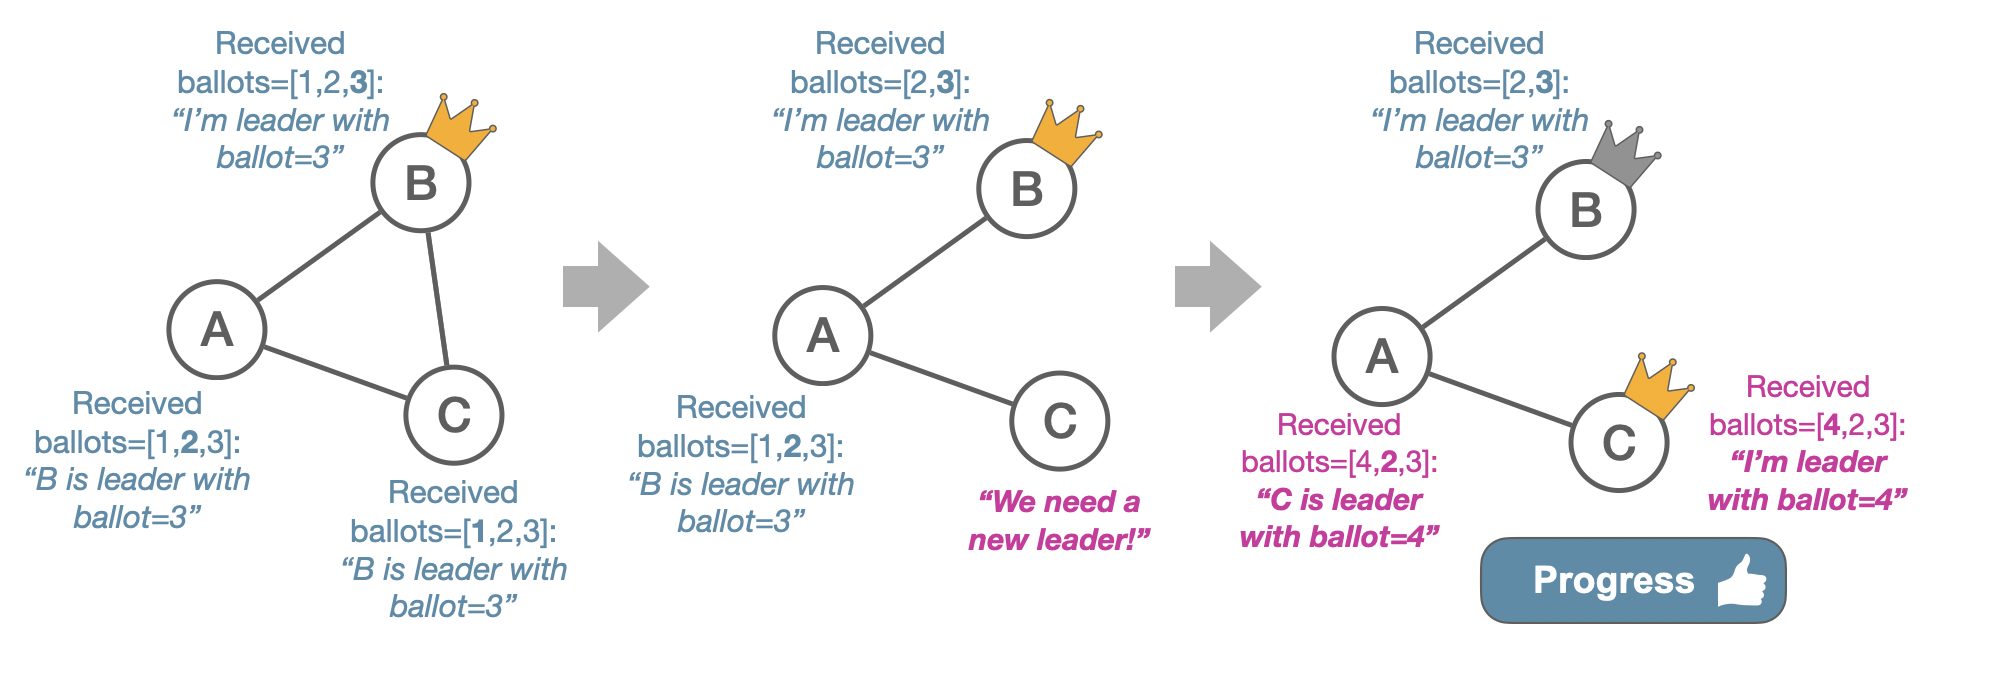
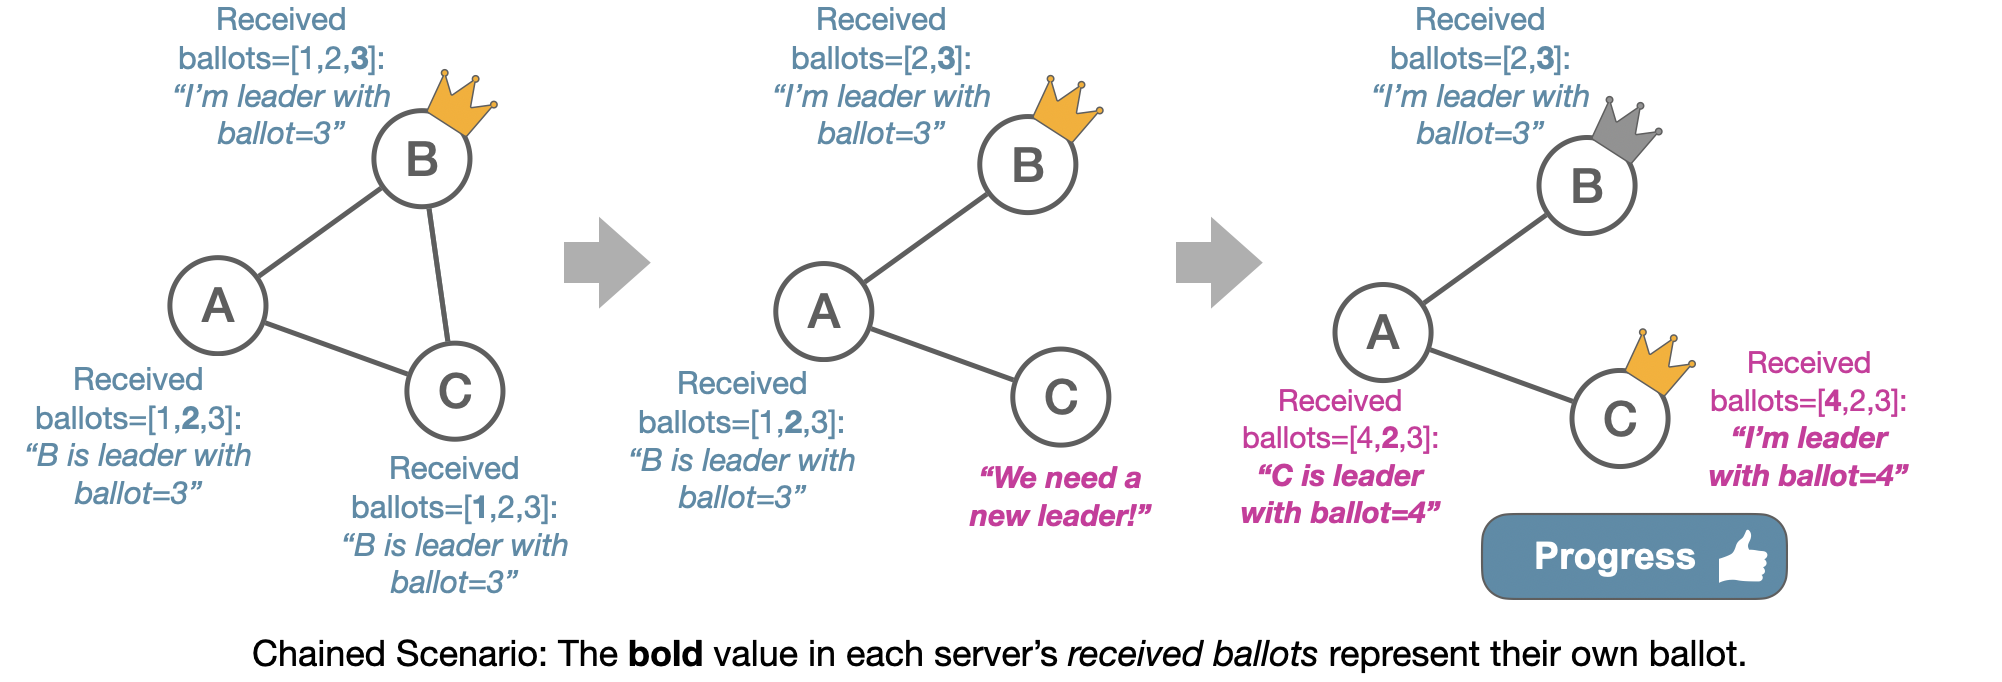
Final touches and add caption to chained omni figure

diff --git a/content/en/blog/partial-connectivity/index.md b/content/en/blog/partial-connectivity/index.md
@@ -2,8 +2,8 @@
 title: "How OmniPaxos handles partial connectivity - and why other protocols can’t"
 description: ""
 excerpt: "Existing state machine replication protocols become unavailable with partial connectivity. OmniPaxos solves the problem by distilling a minimal set of requirements for becoming the leader which separates liveness and safety logic and adds the novel concept of quorum-connectivity to leader election."
-date: 2023-05-03T16:20:54+02:00
-lastmod: 2023-05-03T16:20:54+02:00
+date: 2023-05-08T20:30:54+02:00
+lastmod: 2023-05-08T20:30:54+02:00
 draft: false
 weight: 50
 images: []
@@ -32,7 +32,7 @@ This situation is distinct from the standard assumption of network partitions, w
 
 Consider a situation where we initially have 5 servers (A-E) that are fully connected. Server C is initially able to correctly function as the leader since it's connected to a majority quorum. But later, partial connectivity causes it to no longer be connected to a quorum and therefore unable to commit any new entries. At this point, servers B, D, and E detect that they have lost connection to their leader (C). But they are unable to become leaders themselves as they are not connected to a quorum. On the other hand, server A is connected to a quorum and able to potentially function as the leader. However, since A is still connected to its leader C, it does not initiate a new election.
 
-This results in a deadlock for protocols that simply use the alive status of the leader to determine if an election should be initiated (e.g., [MultiPaxos](https://www.cs.cornell.edu/courses/cs7412/2011sp/paxos.pdf)). Viewstamped Replication (VR) will also be deadlocked despite its round-robin election scheme. A server only votes for a leader (view) change if it observes a majority that also wants to do the same. This design originates in the classic assumption we showed earlier, where servers are fully connected within each partition. But here, it results in servers B-E not voting for a leader change as required.
+This results in a deadlock for protocols that simply use the alive status of the leader to determine if an election should be initiated (e.g., [MultiPaxos](https://www.cs.cornell.edu/courses/cs7412/2011sp/paxos.pdf)). Viewstamped Replication (VR) will also be deadlocked despite its round-robin election scheme. A server only votes for a leader (view) change if it observes a majority that also wants to do the same. This design originates in the classic assumption we showed earlier, where servers are fully connected within each partition. But here, it results in servers B-E not triggering a leader change as required.
 
 **Key insight:** The leader’s alive status alone is insufficient to determine leader change; the leader must also be quorum-connected. Furthermore, regardless of what a server's connectivity is, it should be able to vote for another server as long as they are connected.
 
@@ -55,32 +55,31 @@ In the chained scenario, we initially have three fully-connected servers where B
 **Key insight:** Gossiping the identity of the current leader can cause liveness issues if servers have inconsistent views on who is alive.
 
 ## How OmniPaxos Addresses These Scenarios
-The table below summarizes the most widely-used protocols and how they behave in the described scenarios (for more detailed explanations of the properties, see our EuroSys'23 paper).
+The table below summarizes the most widely-used protocols and how they behave in the described scenarios (for more a detailed explanation, see our EuroSys'23 paper).
 
 ![table](images/table.png)
 
-As we see, there is no protocol other than OmniPaxos that can overcome all these scenarios. The novelty of OmniPaxos lies in eliminating all unnecessary restrictions imposed on candidate servers, and instead focusing on the only relevant requirement for becoming the leader, which is to be **quorum-connected (QC)**. Therefore, unlike other protocols, OmniPaxos ignores the connectivity of non-candidates, omits gossiping the identity of the current leader, and completely separates the logic and state for leader election (liveness) from replication (safety). Instead, it uses an implicit form of voting where servers only exchange their connectivity status and ballot number and do not announce publicly which leader they vote for.
+As we see, there is no protocol other than OmniPaxos that can overcome all these scenarios. The novelty of OmniPaxos lies in eliminating all unnecessary restrictions imposed on candidate servers, and instead focusing on the only relevant requirement for becoming the leader, which is to be **quorum-connected (QC)**. Therefore, unlike other protocols, OmniPaxos ignores the connectivity of non-candidates, omits gossiping the identity of the current leader, and completely separates the logic and state for leader election (liveness) from replication (safety). Instead, it uses an implicit form of voting where servers only exchange their connectivity status and ballot number, and do not publicly announce which leader they vote for. If a server is QC and has the highest ballot number, it will prevail as the leader in the replication protocol and manage to commit new entries.
 
-Ballot Leader Election (BLE) is the leader election protocol in OmniPaxos and it provides resilience against partial connectivity by guaranteeing the election of a leader that can make progress, as long as such a candidate exists. In BLE, all servers periodically exchange heartbeats with one another. The heartbeats allow servers to know which of their peers are alive, but more importantly, if they are quorum-connected. Each server includes its ballot number and a flag indicating its QC status in the heartbeats. This allows servers to detect when the leader fails or loses its quorum-connectivity. Furthermore, it allows only capable servers (i.e., QC servers) to attempt an election and possibly be elected.
+Ballot Leader Election (BLE) is the leader election protocol in OmniPaxos and it provides resilience against partial connectivity by guaranteeing the election of a leader that can make progress, as long as such a candidate exists. In BLE, all servers periodically exchange heartbeats with one another. The heartbeats allow servers to know which of their peers are alive, but more importantly, if they are quorum-connected. Each server includes its ballot number and a flag indicating its QC status in the heartbeats. This allows servers to detect when the leader fails or loses its quorum-connectivity. A server attempts to overtake leadership by incrementing their ballot number. But this can only be done if the server is QC, which ensures that only capable servers (i.e., QC servers) can be elected.
 
 ### OmniPaxos in the Quorum-Loss Scenario
 
 ![ql-omni](images/omni-quorum.png)
-
-Due to the quorum-connected status flag, server A correctly identifies the need for a new leader despite still being connected to C. Server A then calls for a new election and, as it is the only quorum-connected server, wins.
+The heartbeats sent by C will indicate that it has lost its QC stauts. Server A will therefore correctly identify the need for a new leader despite still being connected to C. Since A is still QC, it will increment its ballot number and successfully become the new leader.
 
 ### OmniPaxos in the Constrained-Election Scenario
 
 ![c-omni](images/omni-constrained.png)
 
-In this scenario, all the follower servers become disconnected from the leader. Since A is the only QC server, it will be the only one that increments its ballot number and attempts to become the leader. Server A will win the election because BLE doesn’t require it to have an up-to-date log to become a leader. Moreover, servers B, E, and D do not need to be connected to a majority to vote for it. Server A is elected and then syncs with its followers to become up-to-date before serving new requests.
+In this scenario, all the follower servers become disconnected from the leader. Since A is the only QC server, it will be the only one that increments its ballot number and attempt to become the leader. Server A will win the election because BLE doesn’t require it to have an up-to-date log to become a leader. Moreover, servers B, D, and E do not need to be connected to a majority to start following it. Thus, A overtakes leadership and synchronizes with its followers to become up-to-date before serving new requests. The synchronization occurs in the replication logic, completely separated from the BLE protocol.
 
 ### OmniPaxos in the Chained Scenario
 
 ![chained-omni](images/omni-chained.png)
 
-In the chained scenario, once again C detects the need for a new leader and, together with A’s vote, becomes the next leader. This time, however, the election of C is not gossiped to server B. This is because the heartbeats that A sends only include its own ballot number and not the ballot of its leader. Server B will not see that C has been elected and therefore not interrupt the stability of C’s leadership. Instead, servers A and C can continue to make progress as a quorum.
+In the chained scenario, C will once again think that B has failed, and since it is QC, it will increment its ballot number to try take over. Server A will start following C with the higher ballot. This time, however, the election of C is not gossiped to server B. This is because the heartbeats that A sends only include its own ballot number and  QC status, but not the ballot of its leader. Server B will not see that C has been elected and therefore not interrupt the stability of C’s leadership. Instead, servers A and C can continue to make progress as a quorum.
 
 ### Conclusion
 
-The quorum-connected heartbeats of OmniPaxos’ BLE protocol allow it to overcome partial connectivity scenarios where other protocols fail. These heartbeats allow servers to determine their leader without being quorum connected themselves. This enables OmniPaxos to fully leverage the power of leader-based consensus. That is, OmniPaxos requires only a single server to be connected to a majority to make progress, instead of the fully-connected majority required by other existing protocols.
+The heartbeats of OmniPaxos’ BLE protocol includes only the essential information for electing a leader, namely the quorum-connected status (QC) and the ballot number of a server. This enables capable QC servers to step up as the leader when required. Furthermore, as leader election is separated from replication, non-QC server can still participate in the replication to help QC servers form a quorum that commits entries. This enables OmniPaxos to fully leverage the power of leader-based consensus. That is, OmniPaxos requires only a single server to be connected to a majority to make progress, instead of the fully-connected majority required by other existing protocols.
